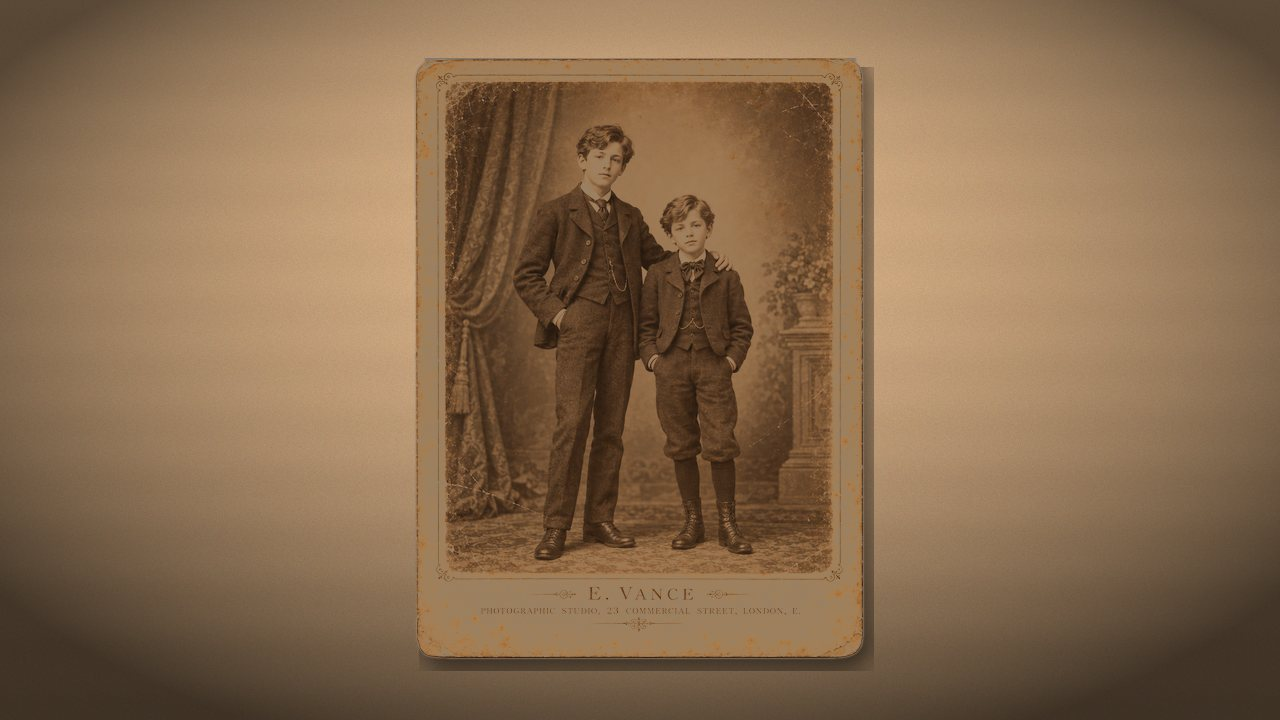
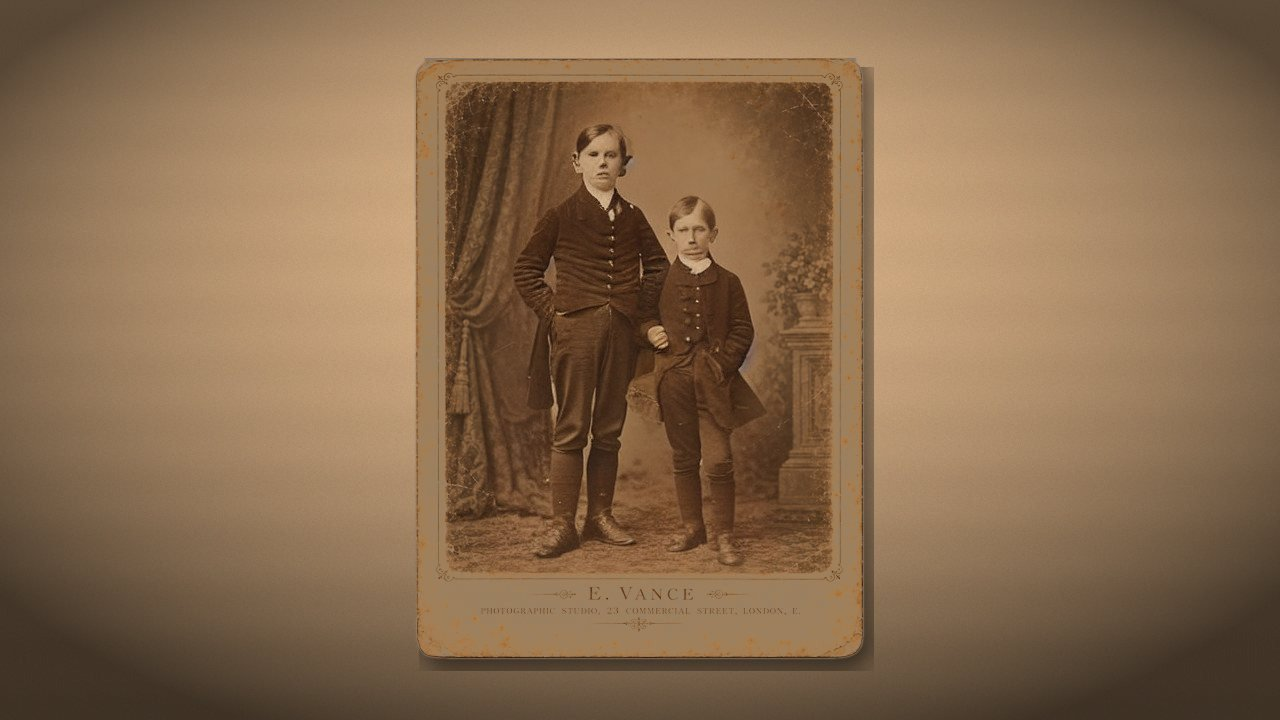
art(el-huesped): integrate Colab seed 1888 Thomas and Nat photograph

Changed region(s): [[0.375, 0.1833, 0.5938, 0.7944]]

diff --git a/web/art_review/room_photo_map/colab/INTEGRATION_SEED1888.md b/web/art_review/room_photo_map/colab/INTEGRATION_SEED1888.md
@@ -1,0 +1,28 @@
+# HorrorPlay / El Huésped — integración Colab seed 1888
+
+Fecha: 2026-10-23 · rama: `reboot/web-el-huesped`.
+
+## Cambios de producción
+- `web/assets/closeups/room_photo.jpg` ← `room_photo_candidate_1888.jpg` del segundo ZIP generado con Colab y su máscara corregida.
+- `web/assets/closeups/room_photo_torn.jpg` ← `room_photo_torn_candidate_1888.jpg` del mismo ZIP.
+- Se optimizaron los JPEG progresivos (calidad 85, subsampling 4:2:0) manteniendo 1280×720; tamaños finales 84.625 y 99.889 bytes respectivamente.
[2 lines of base64/hex data omitted]
+- Se conservan respaldos locales de los JPG y PNG previos fuera del repo en `C:\Dev\HorrorPlay_seed1888_backup_20261023`.
+- Ningún archivo de lógica, diálogo, hotspots ni guion fue modificado. Los sprites de pared `room_photo.png` y `room_photo_torn.png` se mantienen por ahora sin modificación: tienen sus propias anclas de overlay y requieren una prueba específica de coherencia.
+
+## Verificación
[1 lines of base64/hex data omitted]
+- Capturas del juego REAL hechas con `node web/art_review/room_photo_map/v2/scripts/capture_v2.mjs after_colab1888`, en Chromium/Edge headless: pared e inspección, capítulos 1 y 3, a 640×360 y 1280×720. Ocho PNG y registro local bajo `C:\Dev\HorrorPlay_seed1888_QA`.
+- Evidencia visual que sí se versiona: `comparison/SEED1888_INGAME_640.png`, cuatro capturas auténticas a 640×360. La raspadura queda sobre el mayor y Nat conserva el rostro.
+- `node web/tools/test-all.mjs`: **44 PASS** (unit, smoke, audio, escenarios y los tres recorridos completos). El último `browser-check.mjs` ejecutó y aprobó los casos específicos de foto/mapa, pero se bloqueó posteriormente y fue interrumpido. **El comando global terminó con exit 1; NO afirmar 45/45 PASS.**
+- Android físico, APK y memoria/rendimiento móvil: **NO PROBADOS**. No sustituir pruebas en dispositivo con captura de Chromium.
+
+## Próximo trabajo visual propuesto
+1. **Consistencia de sprite de pared con el close-up nuevo:** comparar el par 110×84 del muro (intacto/raspado) con la nueva foto antes de cambiarlo; preservar overlay y anclas de capítulo 3.
+2. **`web/assets/closeups/hands.jpg`:** evaluar mejora de anatomía de manos y material de guantes en la visión, sin mover el bisturí ni pistas visuales; candidata para inpainting acotado en Colab.
+3. **Close-ups de Nichols, Chapman y Eddowes:** priorizar sólo los que tengan defectos concretos tras captura real; no cambiar la composición ni la posición de los hotspots forenses.
+4. **Documentos/fotografías narrativos restantes:** IA para motivos y materiales; tipografía, pistas escritas, mapas y textos generados mediante composición controlada, no diffusion.
+5. **Escenarios:** evitar sustituir los fondos con un JPG estático: preservar farolas, reflejos, niebla, parallax, hotspots y rendimiento móvil.
+
+Este registro documenta la integración; no sustituye una aprobación visual en el teléfono.
